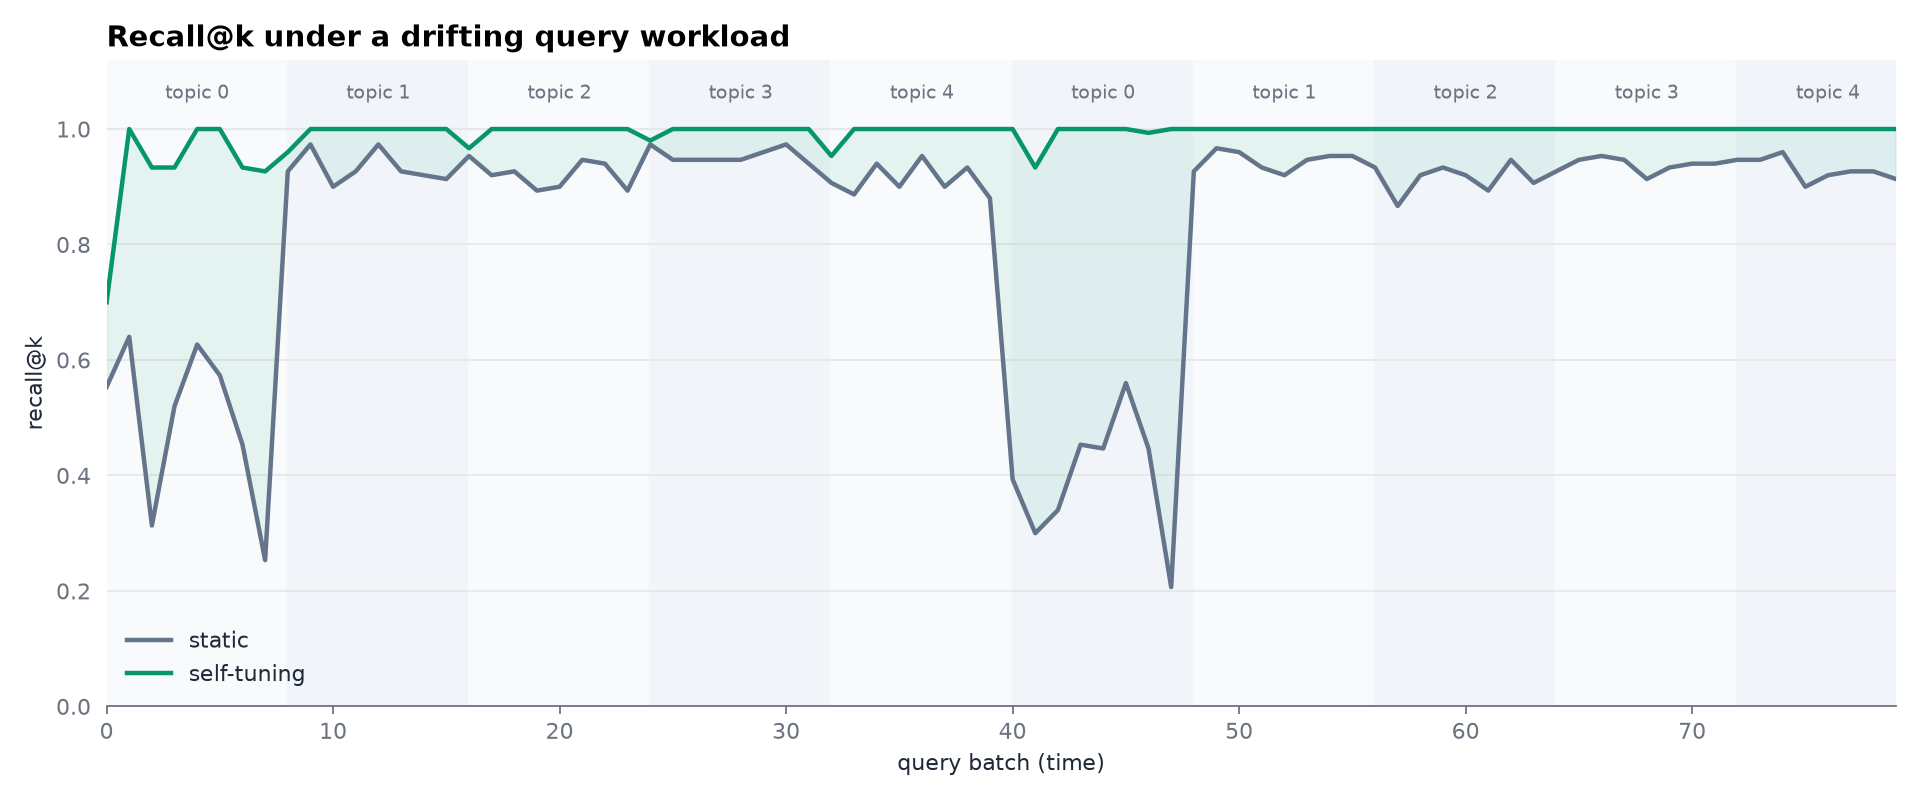
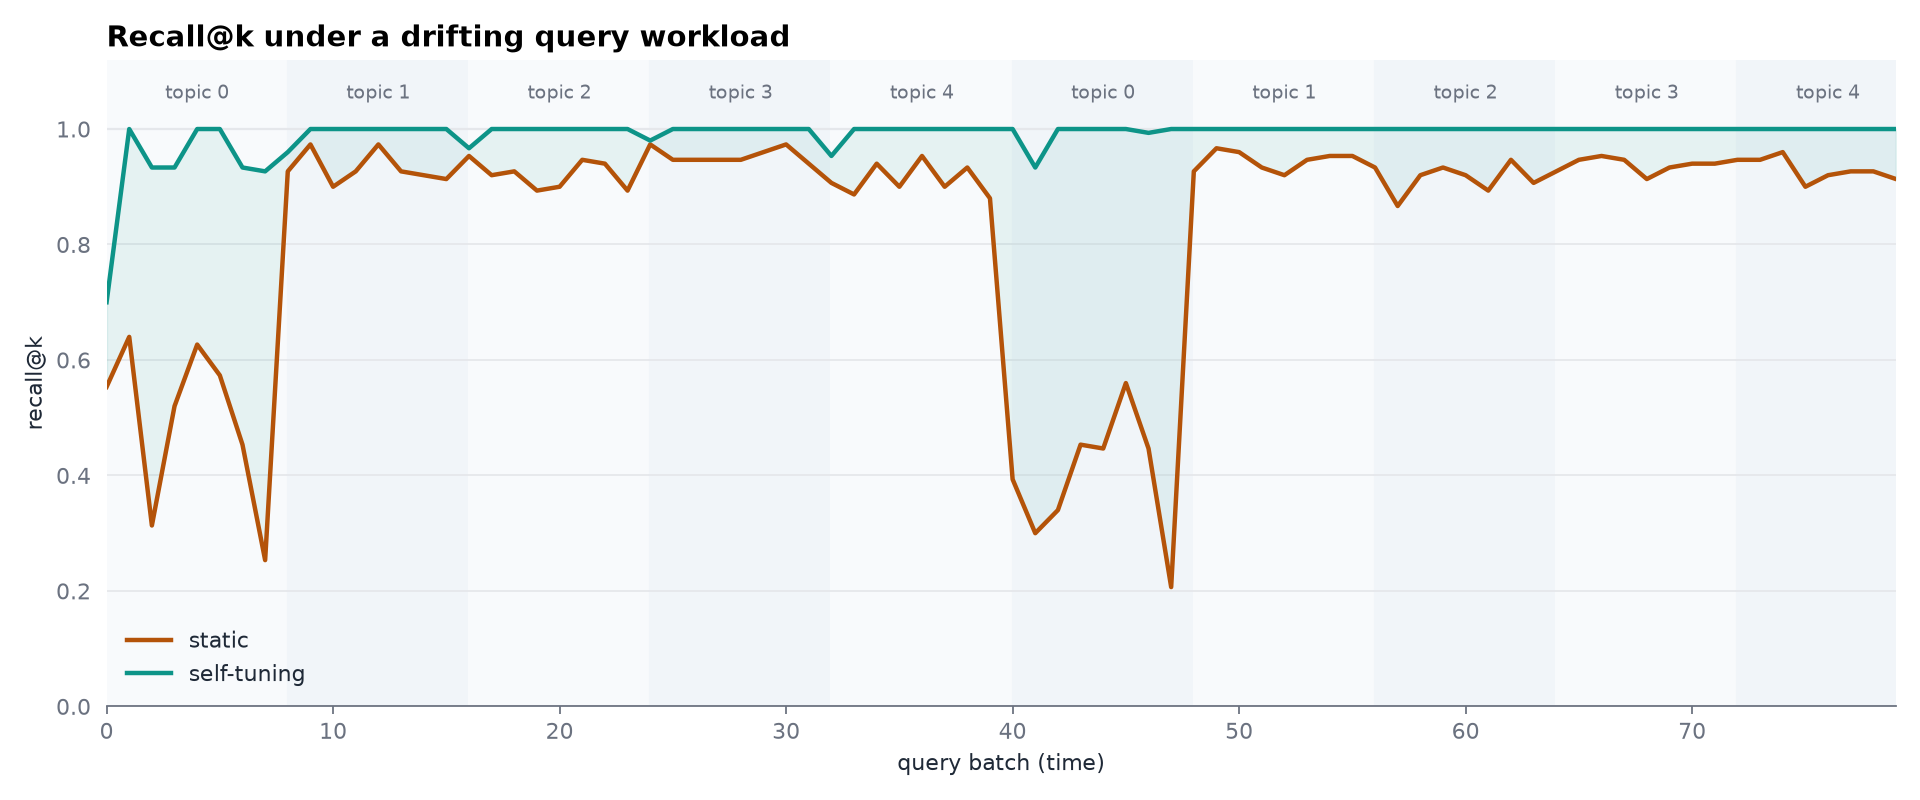
style: switch charts to a validated amber/teal palette and flat hatched pill bars

diff --git a/src/adaptann/viz.py b/src/adaptann/viz.py
@@ -1,23 +1,24 @@
 """Charts for the drifting-workload benchmark.
 
-Shared visual language with this author's other from-scratch projects:
-slate gray for the static baseline, emerald green for the self-tuning
-index, amber only for callout annotations. Bars and lines get their value
-labeled directly so the numbers are legible without reading the axis.
+Visual language: amber for the static baseline, teal for the self-tuning
+index (validated as a colorblind-safe pair, not eyeballed), plus a
+diagonal hatch on every static bar as a second, non-color-dependent way
+to tell the two apart. Bars are flat, fully rounded "pill" shapes with a
+value label set directly inside each one, a deliberately different
+silhouette from a conventional flat-topped column chart.
 """
 
 from __future__ import annotations
 
-_STATIC = "#64748b"
-_ADAPTIVE = "#059669"
-_ADAPTIVE_DARK = "#065f46"
-_ACCENT = "#b45309"
+_STATIC = "#b45309"
+_STATIC_DARK = "#7c2d12"
+_ADAPTIVE = "#0d9488"
+_ADAPTIVE_DARK = "#115e59"
 _GRID = "#e5e7eb"
 _TEXT = "#1f2937"
 _MUTED = "#6b7280"
 _BAND_A = "#f8fafc"
 _BAND_B = "#f1f5f9"
-_SHADOW = "#0f172a"
 
 
 def _style_axis(ax) -> None:
@@ -31,60 +32,39 @@ def _style_axis(ax) -> None:
     ax.yaxis.label.set_color(_TEXT)
 
 
-def _lighten(hex_color: str, amount: float) -> tuple:
-    from matplotlib.colors import to_rgb
-
-    r, g, b = to_rgb(hex_color)
-    return (r + (1 - r) * amount, g + (1 - g) * amount, b + (1 - b) * amount)
-
-
-def _gradient_bar(ax, x_center: float, height: float, width: float, color: str, *, zorder: int = 3) -> None:
-    """A single bar with a rounded top, a soft vertical color gradient, and
-    a faint drop shadow, instead of a flat-filled rectangle. The rounded
-    bottom corners a plain FancyBboxPatch would draw are pushed below
-    ``y=0`` and cropped away by the axes' own clip box, so only the top
-    stays visibly rounded."""
-    import numpy as np
-    from matplotlib.colors import LinearSegmentedColormap
+def _pill_bar(
+    ax, x_center: float, height: float, width: float, color: str, text: str, *,
+    hatch: str | None = None, zorder: int = 3,
+) -> None:
+    """A flat, fully-rounded "pill" bar (not a gradient column): solid
+    fill, a thin white separator stroke, an optional diagonal hatch (used
+    for the static series, so the two are still distinguishable without
+    relying on color at all), and its value set as white text inside the
+    bar rather than floating above it."""
     from matplotlib.patches import FancyBboxPatch
 
     if height <= 0:
         return
-    radius = min(width, height) * 0.22
+    radius = min(width, height) * 0.4
 
-    shadow = FancyBboxPatch(
-        (x_center - width / 2 + width * 0.05, -radius),
-        width, height + radius,
-        boxstyle=f"round,pad=0,rounding_size={radius}",
-        linewidth=0, facecolor=_SHADOW, alpha=0.10, zorder=zorder - 1,
-        transform=ax.transData,
-    )
-    ax.add_patch(shadow)
-
-    outline = FancyBboxPatch(
+    patch = FancyBboxPatch(
         (x_center - width / 2, -radius), width, height + radius,
         boxstyle=f"round,pad=0,rounding_size={radius}",
-        linewidth=0, facecolor="none", zorder=zorder,
-        transform=ax.transData,
+        linewidth=1.8, edgecolor="white", facecolor=color, hatch=hatch,
+        zorder=zorder, transform=ax.transData,
     )
-    ax.add_patch(outline)
+    ax.add_patch(patch)
 
-    cmap = LinearSegmentedColormap.from_list("bar", [_lighten(color, 0.55), color])
-    gradient = np.linspace(0, 1, 256).reshape(-1, 1)
-    im = ax.imshow(
-        gradient, extent=(x_center - width / 2, x_center + width / 2, -radius, height),
-        origin="lower", aspect="auto", cmap=cmap, zorder=zorder,
-        transform=ax.transData,
-    )
-    im.set_clip_path(outline)
-
-
-def _value_chip(ax, x_center: float, y: float, text: str, *, color: str = _TEXT) -> None:
-    ax.text(
-        x_center, y, text, ha="center", va="bottom", fontsize=12.5, color=color, fontweight="bold",
-        bbox={"boxstyle": "round,pad=0.32", "facecolor": "white", "edgecolor": _GRID, "linewidth": 1},
-        zorder=6,
-    )
+    if height > radius * 2.4:
+        ax.text(
+            x_center, height - radius * 0.9, text, ha="center", va="top",
+            fontsize=12.5, color="white", fontweight="bold", zorder=zorder + 2,
+        )
+    else:
+        ax.text(
+            x_center, height + radius * 0.5, text, ha="center", va="bottom",
+            fontsize=12.5, color=_TEXT, fontweight="bold", zorder=zorder + 2,
+        )
 
 
 def plot_recall_over_time(
@@ -144,14 +124,15 @@ def plot_summary_bars(
     path,
 ) -> None:
     """One figure, two panels: mean recall@k and p99 search latency,
-    static vs. self-tuning, side by side, as rounded gradient bars with a
-    soft shadow and a labeled value chip above each one."""
+    static vs. self-tuning, side by side, as flat hatch-vs-solid pill
+    bars with the value set inside each one."""
     import matplotlib.pyplot as plt
 
     fig, (ax1, ax2) = plt.subplots(1, 2, figsize=(11.5, 5))
     fig.patch.set_facecolor("white")
     labels = ["static", "self-tuning"]
     colors = [_STATIC, _ADAPTIVE]
+    hatches = ["////", None]
     bar_width = 0.5
 
     for ax, values, title, ylabel, fmt in (
@@ -159,9 +140,8 @@ def plot_summary_bars(
         (ax2, [p99_static_ms, p99_adaptive_ms], "p99 search latency", "milliseconds", "{:.2f} ms"),
     ):
         ax.set_facecolor(_BAND_A)
-        for i, (val, color) in enumerate(zip(values, colors, strict=True)):
-            _gradient_bar(ax, i, val, bar_width, color)
-            _value_chip(ax, i, val, fmt.format(val), color=_ADAPTIVE_DARK if color == _ADAPTIVE else _TEXT)
+        for i, (val, color, hatch) in enumerate(zip(values, colors, hatches, strict=True)):
+            _pill_bar(ax, i, val, bar_width, color, fmt.format(val), hatch=hatch)
 
         ax.set_xticks(range(len(labels)))
         ax.set_xticklabels(labels, fontsize=11)
@@ -190,8 +170,8 @@ def plot_cold_start_recovery(
     topic cluster's recall@k on its first burst of traffic (cold, nobody
     promoted yet) versus its second burst, a full cycle later (adaptive
     has already densified it and never forgets; static hasn't changed at
-    all, because it can't). Rounded gradient bars with a value chip on
-    each, matching the rest of this project's charts."""
+    all, because it can't). Flat hatch-vs-solid pill bars, matching the
+    rest of this project's charts."""
     import matplotlib.patches as mpatches
     import matplotlib.pyplot as plt
 
@@ -208,10 +188,8 @@ def plot_cold_start_recovery(
     adaptive_vals = [adaptive_first_visit, adaptive_second_visit]
 
     for c, s_val, a_val in zip(centers, static_vals, adaptive_vals, strict=True):
-        _gradient_bar(ax, c - offset, s_val, width, _STATIC)
-        _value_chip(ax, c - offset, s_val, f"{s_val:.0%}")
-        _gradient_bar(ax, c + offset, a_val, width, _ADAPTIVE)
-        _value_chip(ax, c + offset, a_val, f"{a_val:.0%}", color=_ADAPTIVE_DARK)
+        _pill_bar(ax, c - offset, s_val, width, _STATIC, f"{s_val:.0%}", hatch="////")
+        _pill_bar(ax, c + offset, a_val, width, _ADAPTIVE, f"{a_val:.0%}")
 
     ax.set_xticks(centers)
     ax.set_xticklabels(groups, fontsize=11)
